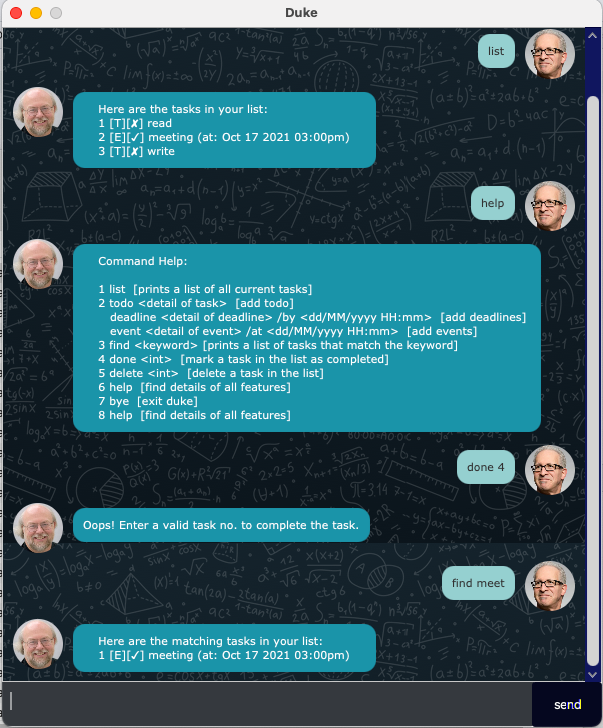
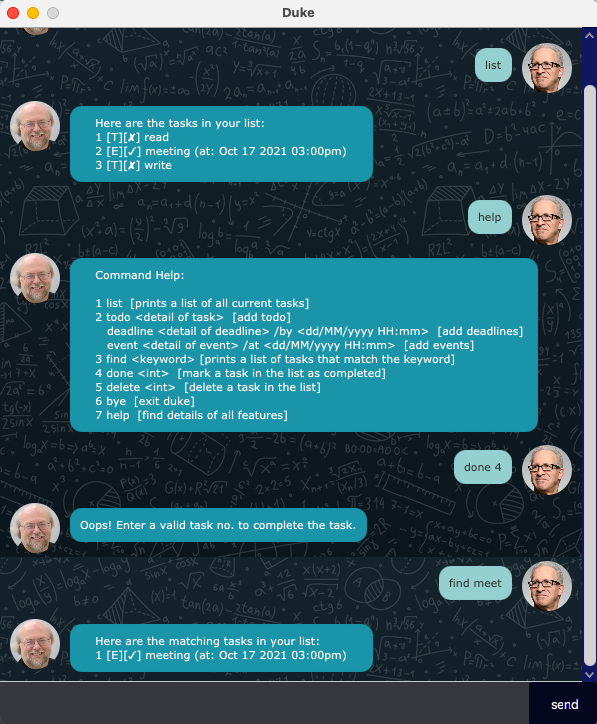
Update README.md

diff --git a/src/main/java/duke/MainWindow.java b/src/main/java/duke/MainWindow.java
@@ -14,8 +14,8 @@ import javafx.scene.layout.VBox;
 public class MainWindow extends AnchorPane {
     @FXML
     private VBox dialogContainer;
-    private Image admin = new Image(MainWindow.class.getResourceAsStream("/images/duke.png"));
-    private Image user = new Image(MainWindow.class.getResourceAsStream("/images/user.png"));
+    private final Image admin = new Image(MainWindow.class.getResourceAsStream("/images/duke.png"));
+    private final Image user = new Image(MainWindow.class.getResourceAsStream("/images/user.png"));
     @FXML
     private ScrollPane scrollPane;
     @FXML

diff --git a/src/main/java/duke/command/HelpCommand.java b/src/main/java/duke/command/HelpCommand.java
@@ -27,7 +27,7 @@ public class HelpCommand implements Command {
     @Override
     public String execute(TaskList taskList, Ui ui, Storage storage) throws DukeException {
         Collections.addAll(commandList, new ListCommand(), new AddTaskCommand(), new FindCommand(),
-                new DoneCommand(), new DeleteCommand(), new HelpCommand(), new ByeCommand(), new HelpCommand());
+                new DoneCommand(), new DeleteCommand(), new ByeCommand(), new HelpCommand());
         return ui.printAll(commandList, "Command Help: \n");
     }
     /**

diff --git a/docs/README.md b/docs/README.md
@@ -1,29 +1,126 @@
 # User Guide
+## Features
+1. ### [Add tasks](#add-tasks)
+   - [`todo`](#`todo` - add a todo task that is not time-sensitive to your list of tasks)
+   - [`deadline`](#`deadline` - add a deadline task with a specified date and time your list of tasks)
+   - [`event`](#`event` - add an event with a specified date and time to your list of tasks)
+2. ### [View tasks](#View Tasks)
+   - [`list`](#`list` - shows all your current tasks with the completion status and task type)
+3. ### [Update tasks](#Update Tasks)
+   - [`done`](#`done` - complete a task in your list of tasks)
+   - [`delete`](#`delete` - remove a task from your list of tasks)
+4. ### [Search tasks](#Search Tasks)
+   - [`find`](#`find` - find relevant tasks with keyword)
+5. ### [Additional Features](#Additional Features)
+   - [`help`](#`help` - list all  supported commands with their respective formats)
+   - [`bye`](#`bye` - exits the application)
+   - [save](#save)
+### Download here
 
-## Features 
+---
+## Add Tasks
+Adds a task of type `todo`/ `deadline`/ `event ` to your list of tasks.
 
-### Feature-ABC
 
-Description of the feature.
+### `todo` - add a todo task that is not time-sensitive to your list of tasks
 
-### Feature-XYZ
+**Format**: `todo [detail]`
 
-Description of the feature.
+Argument | Remarks
+------------ | -------------
+[detail] | description of the task 
+Example: `todo read book`
 
-## Usage
+Expected outcome: 
+<img height="80" src="/Users/zumana/Desktop/Screenshot 2021-09-16 at 5.15.17 PM.png" width="600"/>
 
-### `Keyword` - Describe action
+---
+### `deadline` - add a deadline task with a specified date and time your list of tasks
 
-Describe the action and its outcome.
+**Format**: `deadline [detail] /by [dd/MM/yyyy HH:mm]`
 
-Example of usage: 
+Argument | Remarks
+------------ | -------------
+[detail] | description of the deadline
+[dd/MM/yyyy HH:mm] | date and time of the deadline
 
-`keyword (optional arguments)`
+**Example of Usage**: `deadline math hw /by 19/02/2021 19:00`
 
-Expected outcome:
+**Expected outcome**:
+<img height="80" src="/Users/zumana/Desktop/Screenshot 2021-09-16 at 5.37.26 PM.png" width="600"/>
 
-Description of the outcome.
+---
+### `event` - add an event with a specified date and time to your list of tasks
 
-```
-expected output
-```
+**Format**: `event meeting /at [dd/MM/yyyy HH:mm]`
+
+Argument | Remarks
+------------ | -------------
+[detail] | description of the event
+[dd/MM/yyyy HH:mm] | date and time of the event
+**Example of Usage**: `event meeting /at 19/08/2021 09:00`
+
+**Expected outcome**:
+<img height="80" src="/Users/zumana/Desktop/Screenshot 2021-09-16 at 5.42.44 PM.png" width="600"/>
+---
+
+## View Tasks
+
+### `list` - shows all your current tasks with the completion status and task type
+
+**Format**: `list`
+
+**Expected Outcome**:
+<img height="110" src="/Users/zumana/Desktop/Screenshot 2021-09-16 at 5.55.34 PM.png" width="600"/>
+
+---
+## Update Tasks
+
+### `done` - complete a task in your list of tasks
+**Format**: `done [index]`
+
+Argument | Remarks
+------------ | -------------
+[index] | index of task starting from 1
+
+**Example of Usage**: `done 1`
+
+**Expected Outcome**:
+<img height="220" src="/Users/zumana/Desktop/Screenshot 2021-09-16 at 6.05.20 PM.png" width="600"/>
+
+---
+### `delete` - remove a task from your list of tasks
+**Format**: `delete [index]`
+
+Argument | Remarks
+------------ | -------------
+[index] | index of task starting from 1
+**Example of Usage**: `delete 2`
+
+**Expected Outcome**:
+<img height="220" src="/Users/zumana/Desktop/Screenshot 2021-09-16 at 6.07.02 PM.png" width="600"/>
+---
+## Search Tasks
+### `find` - find relevant tasks with keyword
+**Format**: `find [keyword]`
+
+Argument | Remarks
+------------ | -------------
+[keyword] | string that appears in the detail of a task
+
+**Example of Usage**: `find meet`
+
+**Expected Outcome**:
+<img height="220" src="/Users/zumana/Desktop/Screenshot 2021-09-16 at 6.11.45 PM.png" width="600"/>
+---
+## Additional Features
+### `help` - list all  supported commands with their respective formats
+**Format**: `help`
+
+### `bye` - exits the application
+**Format**: `bye`
+
+### save
+Saves and loads your current tasks from your local file`data/list.txt` whenever you use the application.
+
+<br></br>
